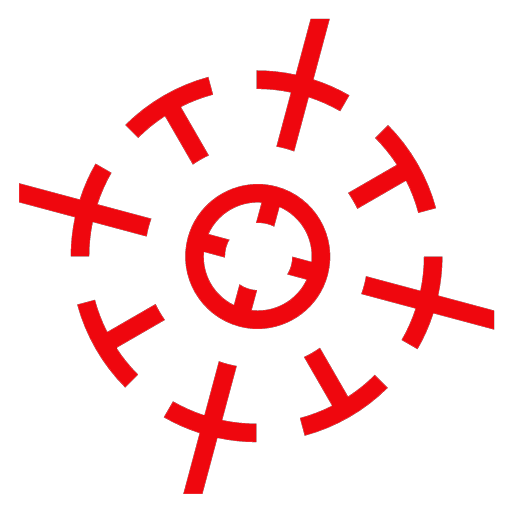
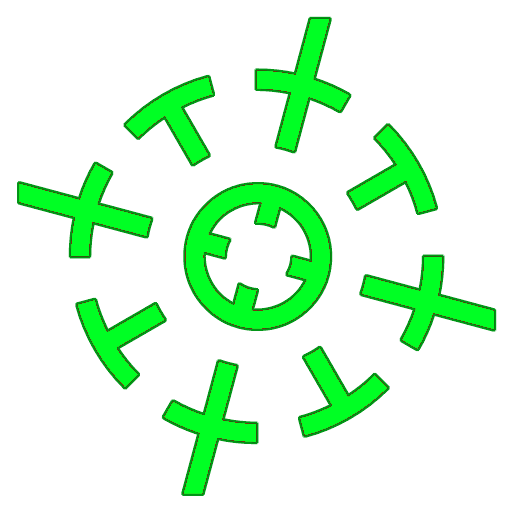
updated color scheme for readability
claw head is bigger
spaceman suit diff color
claw chain diff color
bg less intense
gameover screen high score box borders added

diff --git a/Claw/clawMain.cs b/Claw/clawMain.cs
@@ -133,6 +133,9 @@ namespace Claw
         public clawMain()
         {
             graphics = new GraphicsDeviceManager(this);
+            graphics.PreferredBackBufferHeight = 550;
+            graphics.PreferredBackBufferWidth = 800;
+            graphics.ApplyChanges();
             Content.RootDirectory = "Content";
         }
 
@@ -154,9 +157,8 @@ namespace Claw
             int viewHeight;
             viewHeight = GraphicsDevice.Viewport.Height;
 
-            player1 = new Player(370, 400, 50, 50, viewWidth);
-            
-            base.Initialize();
+            player1 = new Player(viewWidth/2, 480, 50, 50, viewWidth);
+
 
             this.mouseTex = this.Content.Load<Texture2D>("targeting");
             controls = new Controls();
@@ -179,7 +181,8 @@ namespace Claw
                 stream.Close();
                 
             }
-           
+            base.Initialize();
+
         }
 
         /// <summary>
@@ -196,7 +199,7 @@ namespace Claw
             world = new World(new Vector2(0, 9.8f));
 
             // TODO: use this.Content to load your game content here
-            background = Content.Load<Texture2D>("marsbg.jpg");
+            background = Content.Load<Texture2D>("marsbg.png");
             gameOverScreen = Content.Load<Texture2D>("gameover.png");
             mHealthBar = Content.Load<Texture2D>("healthbar_temp3.png");
             healthText = Content.Load<Texture2D>("health text.png");
@@ -745,7 +748,7 @@ namespace Claw
  
         private void DrawTitleScreen()
         {
-            spriteBatch.Draw(mTitleScreenBackground, Vector2.Zero, Color.White);
+            spriteBatch.Draw(mTitleScreenBackground, new Rectangle(0, 0, GraphicsDevice.PresentationParameters.BackBufferWidth, GraphicsDevice.PresentationParameters.BackBufferHeight), Color.White);
         }
 
         /// <summary>
@@ -770,7 +773,7 @@ namespace Claw
            }
            else if(gameOver)
            {
-               spriteBatch.Draw(gameOverScreen, new Rectangle(0, 0, 800, 480), Color.White);
+               spriteBatch.Draw(gameOverScreen, new Rectangle(0, 0,  GraphicsDevice.PresentationParameters.BackBufferWidth, GraphicsDevice.PresentationParameters.BackBufferHeight), Color.White);
                if (expSys.totalExperience > highScore)
                {
                    highScore = expSys.totalExperience;
@@ -783,17 +786,17 @@ namespace Claw
                    }
                }
 
-               spriteBatch.Draw(gameOverScreen, new Rectangle(0, 0, 800, 480), Color.White);
-               spriteBatch.Draw(staticHit, new Rectangle(110, 250, 270, 125), Color.Black);
-               spriteBatch.DrawString(font, "High Score:" + highScore, new Vector2(145, 275), Color.Purple);
-               spriteBatch.DrawString(font, "Your Score:" + expSys.totalExperience, new Vector2(145, 315), Color.Green);
+               spriteBatch.Draw(gameOverScreen, new Rectangle(0, 0, GraphicsDevice.PresentationParameters.BackBufferWidth, GraphicsDevice.PresentationParameters.BackBufferHeight), Color.White);
+               //spriteBatch.Draw(staticHit, new Rectangle(110, 300, 270, 125), Color.Black);
+               spriteBatch.DrawString(font, "High Score:" + highScore, new Vector2(135, 370), Color.Purple);
+               spriteBatch.DrawString(font, "Your Score:" + expSys.totalExperience, new Vector2(135, 405), Color.Green);
                spriteBatch.End();
            }
            else if(startGame)
            {
 
                //background
-               spriteBatch.Draw(background, new Rectangle(0, 0, 800, 480), Color.White);
+               spriteBatch.Draw(background, new Rectangle(0, 0, GraphicsDevice.PresentationParameters.BackBufferWidth, GraphicsDevice.PresentationParameters.BackBufferHeight), Color.White);
 
                //health text
                spriteBatch.Draw(healthText, new Rectangle(10, 5, healthText.Bounds.Width, healthText.Bounds.Height), Color.White);
